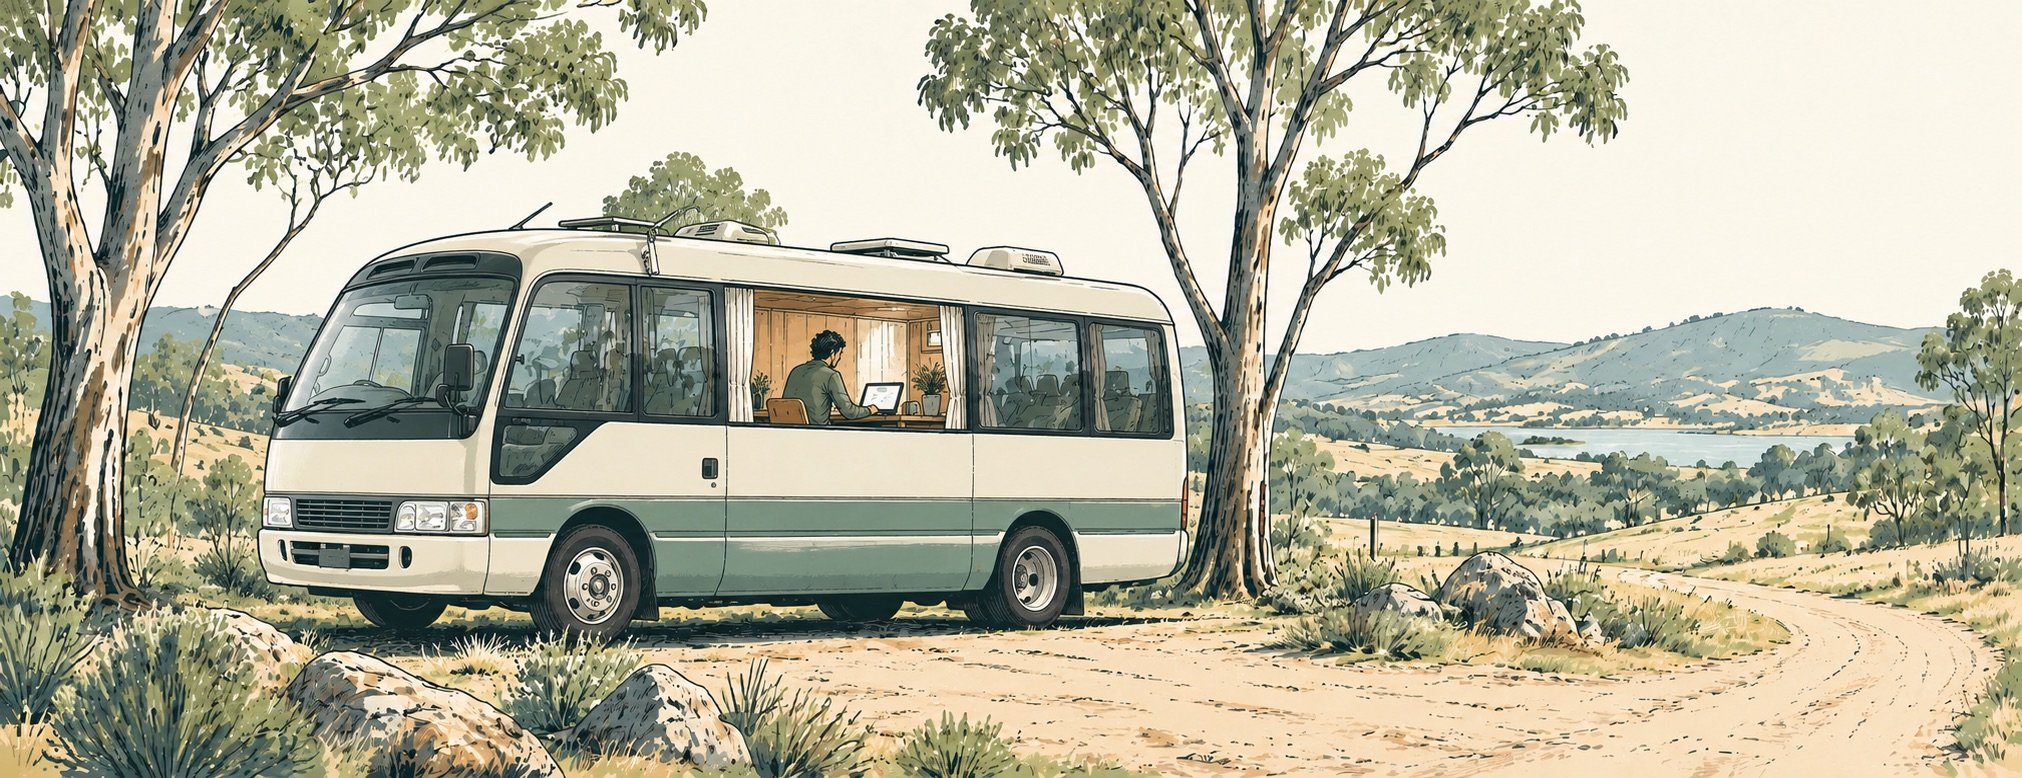
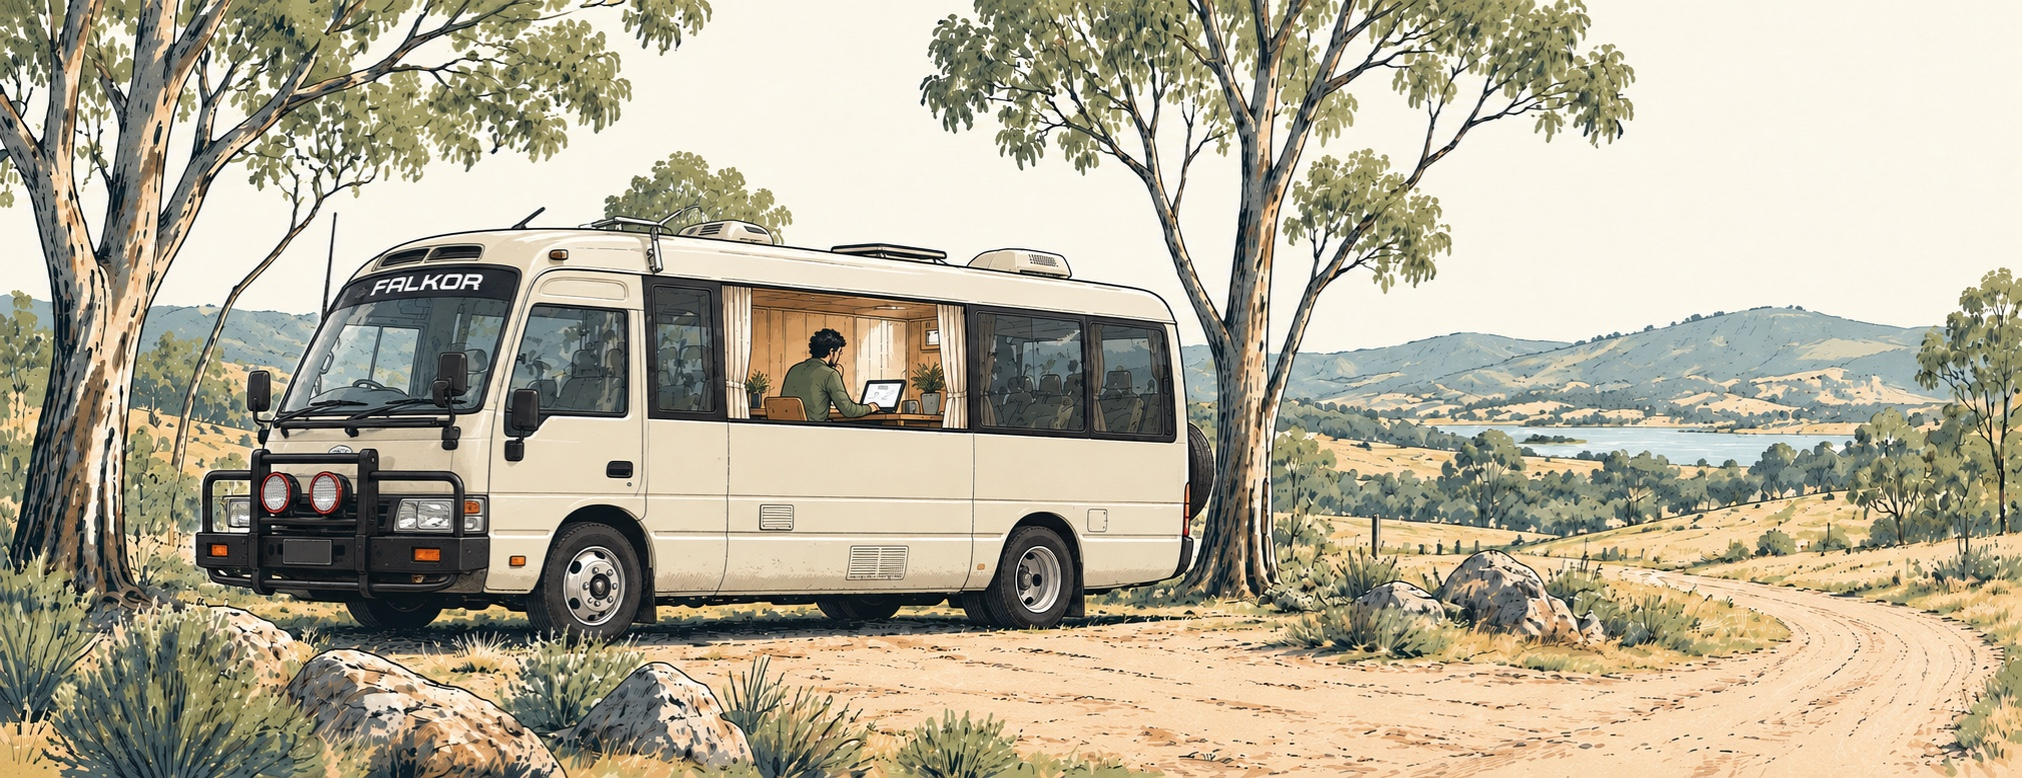
art: refine Falkor from verified bus photos

diff --git a/README.md b/README.md
@@ -37,7 +37,7 @@ In Sydney, I joined Atlassian and became a Principal Engineer, working on Jira. 
 Life outside the role took an unusual shape too. During my final year in Australia, I lived and worked from a converted bus called Falkor while travelling through New South Wales. A laptop, a much smaller home and a changing view became part of the same working life.
 
 <p align="center">
-  <img src="assets/sydney-bus.jpg" alt="Conceptual illustration of working from a converted Toyota Coaster among eucalyptus trees in New South Wales, during the Australia chapter." width="760">
+  <img src="assets/sydney-bus.jpg" alt="Conceptual illustration of working from Falkor, an ivory Toyota Coaster with its name across the windshield, among eucalyptus trees in New South Wales." width="760">
 </p>
 
 ## Dubai · Engineering through people
